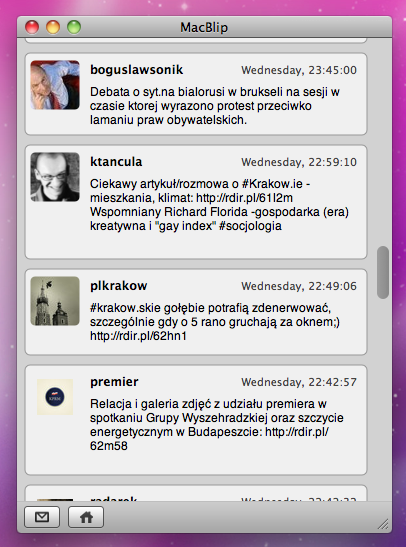
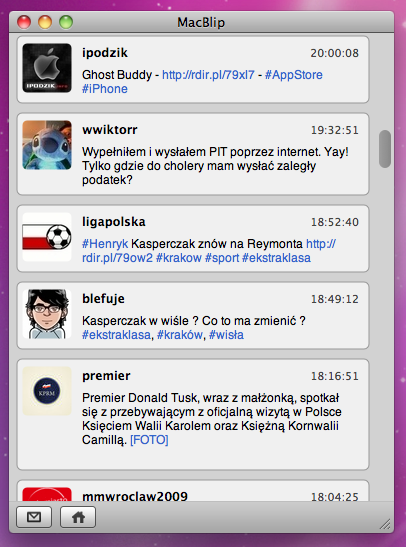
updated after 0.2 release

diff --git a/index.html b/index.html
@@ -23,11 +23,17 @@
       <p><a href="macblip_shot.png" rel="lightbox"><img src="macblip_shot.png" width="280"></a></p>
 
       <div id="version">
-        <p><a href="http://github.com/downloads/psionides/MacBlip/MacBlip-0.1.1.zip">Pobierz</a></p>
+        <p><a href="http://github.com/downloads/psionides/MacBlip/MacBlip-0.2.zip">Pobierz</a></p>
       </div>
-      <p class="version-number">Wersja 0.1.1 &ndash; 10.9 MB</p>
+      <p class="version-number">Wersja 0.2 &ndash; 11.2 MB</p>
 
-      <h3>Changelog</h3>
+      <h3>Changelog (w skrócie)</h3>
+
+      <h4>Wersja 0.2</h4>
+      <ul>
+        <li>wykrywanie linków, tagów i loginów w tekstach wiadomości</li>
+        <li>nowa ikonka</li>
+      </ul>
 
       <h4>Wersja 0.1.1</h4>
       <ul>
@@ -59,7 +65,7 @@
     <p>Widzisz ten napis "alpha" w nagłówku? No właśnie&nbsp;:) Wszystko w swoim czasie. Na dzień dzisiejszy sporo rzeczy jeszcze nie działa, ale pod pewnymi względami już jest lepiej niż w ABlipie (np. da się w ogóle wysyłać wiadomości pod Snow Leopardem...).</p>
 
     <h2>Czemu to jest po angielsku?</h2>
-    <p>Bo jeszcze nie zrobiłem polskiej lokalizacji - będzie prawdopodobnie w wersji 0.2.</p>
+    <p>Bo jeszcze nie zrobiłem polskiej lokalizacji - będzie prawdopodobnie w wersji 0.3.</p>
 
     <h2>Nie działa mi / zawiesiło mi się / ...</h2>
     <p>Jeśli znalazłeś jakiś błąd, masz jakieś problemy, możesz je zgłaszać w <a href="http://github.com/psionides/MacBlip/issues">GitHub issues</a>, natomiast jeśli masz jakieś propozycje, pomysły, brakuje ci jakiejś funkcji - zajrzyj na <a href="http://macblip.sugester.pl">Forum Sugester.pl</a>. Możesz też pisać do mnie na Blipa (<a href="http://psionides.blip.pl">^psionides</a> lub <a href="http://blip.pl/tags/macblip">#macblip</a>) albo maila (jakub.suder at gmail.com).</p>
@@ -73,7 +79,6 @@
     <h2>Co będzie w następnej wersji? Kiedy będzie następna wersja?</h2>
     <p>Nie wiem kiedy będzie - jak się napisze, to będzie. Na pewno mam w planie takie funkcje, niekoniecznie w tej kolejności:</p.
     <ul>
-      <li>podświetlanie linków i tagów w tekście i możliwość klikania w nie</li>
       <li>wyświetlanie obrazków (quicklook-style) i wysyłanie obrazków</li>
       <li>preferencje (ustawienia growla, częstotliwości odświeżania kokpitu, czcionki, itd.)</li>
       <li>polską lokalizację</li>
